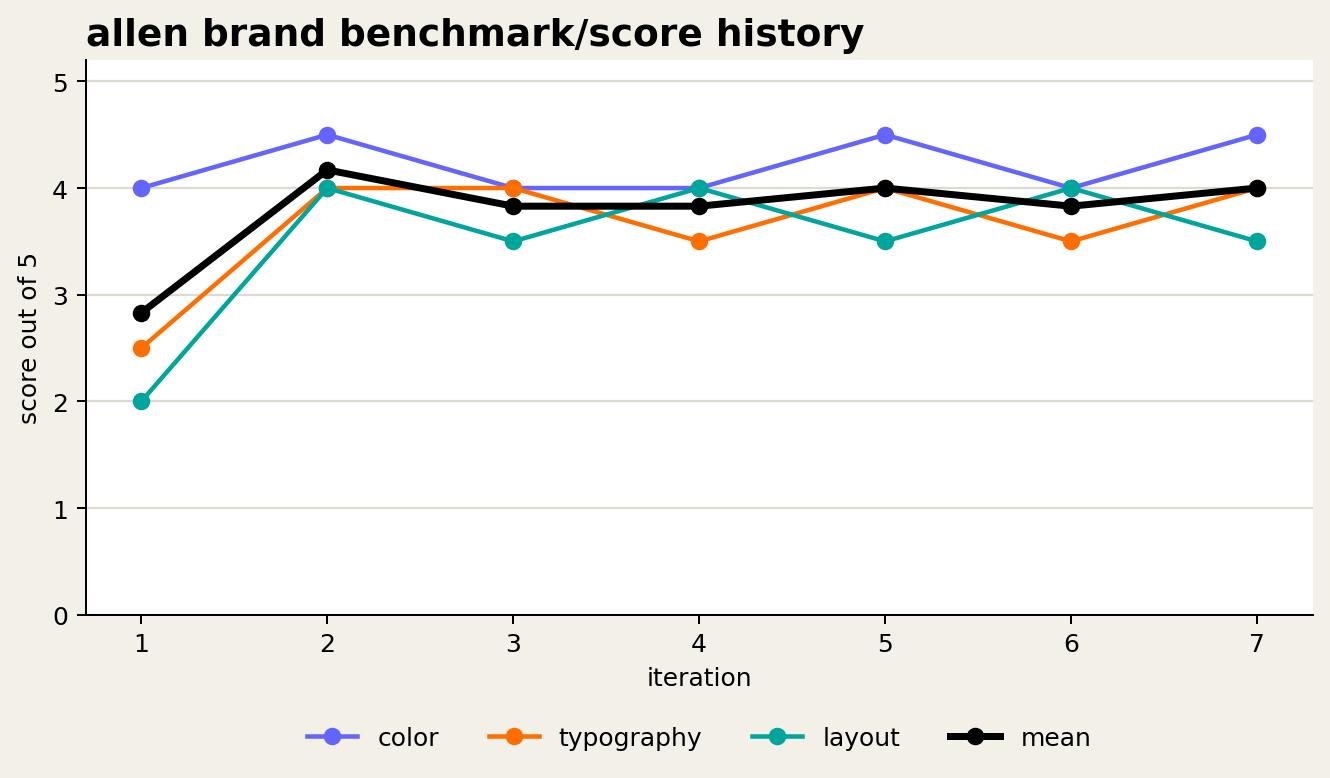
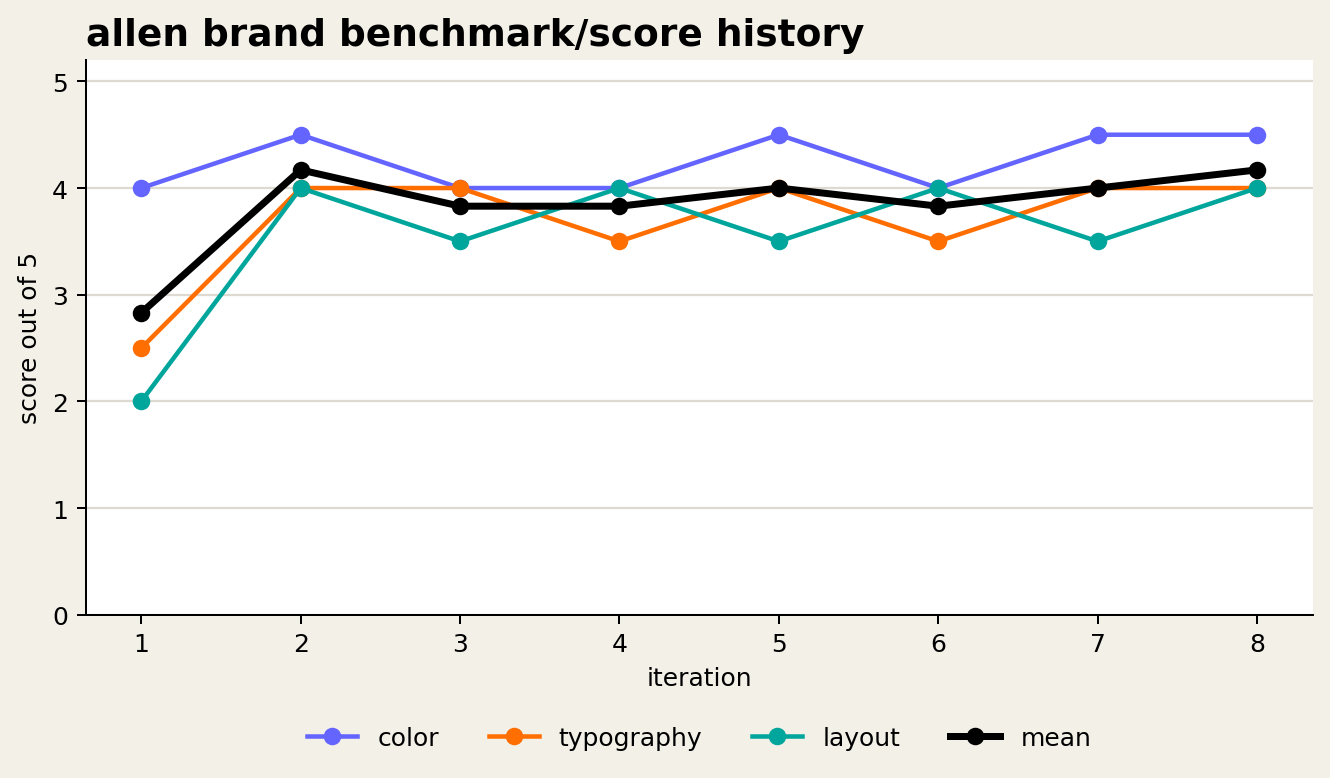
Record Allen inner-axis benchmark

diff --git a/.autoresearch/mod_plot.py b/.autoresearch/mod_plot.py
@@ -7,6 +7,7 @@
 # ///
 from __future__ import annotations
 
+from math import isfinite
 from pathlib import Path
 
 import matplotlib.pyplot as plt
@@ -21,14 +22,6 @@ SOURCE = Path(
 )
 OUT_DIR = Path(__file__).resolve().parent
 FIGURE_PATH = OUT_DIR / "plot.png"
-
-PLOTS = (
-    ("hit_rate", "line"),
-    ("false_alarm_rate", "line"),
-    ("vis_dprime", "bar"),
-    ("aud_dprime", "bar"),
-)
-METRICS = tuple(metric for metric, _ in PLOTS)
 
 ALLEN = {
     "black": "#000000",
@@ -49,18 +42,16 @@ ALLEN = {
 }
 ALLEN_SERIES = [
     ALLEN[key]
-    for key in (
-        "blue",
-        "orange",
-        "teal",
-        "violet",
-        "green",
-        "rose",
-        "maroon",
-        "ochre",
-        "yellow",
-    )
+    for key in ("blue", "orange", "teal", "violet", "green", "rose", "maroon")
 ]
+
+PLOTS = (
+    ("hit_rate", "line"),
+    ("false_alarm_rate", "line"),
+    ("vis_dprime", "bar"),
+    ("aud_dprime", "bar"),
+)
+METRICS = tuple(metric for metric, _ in PLOTS)
 METRIC_LABELS = {
     "hit_rate": "hit rate",
     "false_alarm_rate": "false alarm rate",
@@ -95,27 +86,22 @@ def resolve_font() -> str:
     )
 
 
-def apply_allen_style() -> None:
-    plt.rcParams.update(
-        {
-            "figure.facecolor": ALLEN["white"],
-            "axes.facecolor": ALLEN["white"],
-            "axes.edgecolor": ALLEN["black"],
-            "axes.labelcolor": ALLEN["black"],
-            "axes.linewidth": 0.9,
-            "axes.prop_cycle": cycler(color=ALLEN_SERIES),
-            "font.family": resolve_font(),
-            "font.size": 10,
-            "grid.color": ALLEN["page2"],
-            "grid.linewidth": 0.8,
-            "legend.frameon": False,
-            "savefig.facecolor": ALLEN["white"],
-            "savefig.bbox": "tight",
-            "text.color": ALLEN["black"],
-            "xtick.color": ALLEN["gray2"],
-            "ytick.color": ALLEN["gray2"],
-        }
-    )
+plt.rcParams.update(
+    {
+        "figure.facecolor": ALLEN["white"],
+        "axes.facecolor": ALLEN["white"],
+        "axes.edgecolor": ALLEN["black"],
+        "axes.labelcolor": ALLEN["black"],
+        "axes.prop_cycle": cycler(color=ALLEN_SERIES),
+        "font.family": resolve_font(),
+        "grid.color": ALLEN["page2"],
+        "grid.linewidth": 0.9,
+        "savefig.facecolor": ALLEN["white"],
+        "text.color": ALLEN["black"],
+        "xtick.color": ALLEN["gray2"],
+        "ytick.color": ALLEN["gray2"],
+    }
+)
 
 
 def load_session_summary() -> pl.DataFrame:
@@ -170,70 +156,84 @@ def summarize_by_weekday(sessions: pl.DataFrame) -> pl.DataFrame:
     return summary
 
 
-def style_axis(ax: plt.Axes, metric: str, weekdays: list[str]) -> None:
-    ax.set_title(
-        f"{METRIC_LABELS[metric]}/",
-        loc="left",
-        fontsize=11,
-        fontweight="bold",
-        pad=12,
-    )
-    ax.set_xticks(range(len(weekdays)))
-    ax.set_xticklabels([weekday.lower() for weekday in weekdays])
-    ax.set_ylabel("mean +/- SEM", fontsize=9.5)
+def clean_values(values: list[float | None], *, null_value: float) -> list[float]:
+    return [null_value if value is None else float(value) for value in values]
+
+
+def set_metric_limits(ax: plt.Axes, metric: str, means: list[float], sems: list[float]) -> None:
+    if metric in {"hit_rate", "false_alarm_rate"}:
+        ax.set_ylim(0, 1)
+        return
+
+    lows = [mean - sem for mean, sem in zip(means, sems, strict=True)]
+    highs = [mean + sem for mean, sem in zip(means, sems, strict=True)]
+    finite_lows = [value for value in lows if isfinite(value)]
+    finite_highs = [value for value in highs if isfinite(value)]
+    if not finite_lows or not finite_highs:
+        return
+
+    lower = min(0, min(finite_lows))
+    upper = max(finite_highs)
+    pad = max((upper - lower) * 0.15, 0.2)
+    ax.set_ylim(lower - pad, upper + pad)
+
+
+def style_axis(ax: plt.Axes, metric: str, x: list[int], weekdays: list[str]) -> None:
+    ax.set_title(METRIC_LABELS[metric], loc="left", fontsize=12, fontweight="bold", pad=12)
+    ax.set_ylabel("session mean", fontsize=9.5, labelpad=8)
+    ax.set_xticks(x, weekdays)
     ax.grid(axis="y")
     ax.grid(axis="x", visible=False)
-    ax.spines["top"].set_visible(False)
-    ax.spines["right"].set_visible(False)
-    ax.spines["left"].set_color(ALLEN["gray1"])
-    ax.spines["bottom"].set_color(ALLEN["gray1"])
-    ax.tick_params(axis="both", length=3, width=0.8, labelsize=8.5)
+    ax.tick_params(axis="both", labelsize=9, length=0)
+
+    for spine in ("top", "right"):
+        ax.spines[spine].set_visible(False)
+    ax.spines["left"].set_color(ALLEN["black"])
+    ax.spines["bottom"].set_color(ALLEN["black"])
 
 
 def make_plot(summary: pl.DataFrame) -> None:
-    apply_allen_style()
-
     x = list(range(summary.height))
-    weekdays = summary["weekday"].to_list()
-    fig, axes = plt.subplots(2, 2, figsize=(8, 6), sharex=True)
+    weekdays = [weekday.lower() for weekday in summary["weekday"].to_list()]
+    fig, axes = plt.subplots(2, 2, figsize=(9.4, 6.8), sharex=True)
     fig.subplots_adjust(
-        left=0.11,
+        left=0.10,
         right=0.98,
-        bottom=0.13,
-        top=0.81,
-        hspace=0.42,
-        wspace=0.30,
+        bottom=0.12,
+        top=0.78,
+        hspace=0.48,
+        wspace=0.32,
     )
-
     fig.suptitle(
-        "allen institute/dynamic routing",
-        x=0.11,
-        y=0.97,
+        "dynamic routing/weekday behavior",
+        x=0.10,
+        y=0.96,
         ha="left",
-        fontsize=18,
+        fontsize=20,
         fontweight="bold",
     )
     fig.text(
-        0.11,
-        0.925,
-        "behavior performance by weekday",
+        0.10,
+        0.905,
+        "session mean +/- SEM across behavior sessions",
         ha="left",
         fontsize=10.5,
         color=ALLEN["gray2"],
     )
-    fig.text(
-        0.98,
-        0.925,
-        f"{int(summary['n_sessions'].sum())} sessions",
-        ha="right",
-        fontsize=10.5,
-        color=ALLEN["gray2"],
+    fig.add_artist(
+        Line2D(
+            [0.10, 0.98],
+            [0.835, 0.835],
+            transform=fig.transFigure,
+            color=ALLEN["blue"],
+            linewidth=2.5,
+            solid_capstyle="butt",
+        )
     )
-    fig.supxlabel("weekday", x=0.545, y=0.045, fontsize=10.5)
 
     for ax, (metric, plot_type) in zip(axes.flat, PLOTS, strict=True):
-        means = summary[f"{metric}_mean"].to_list()
-        sems = summary[f"{metric}_sem"].fill_null(0).to_list()
+        means = clean_values(summary[f"{metric}_mean"].to_list(), null_value=float("nan"))
+        sems = clean_values(summary[f"{metric}_sem"].to_list(), null_value=0)
         color = METRIC_COLORS[metric]
 
         if plot_type == "line":
@@ -242,15 +242,14 @@ def make_plot(summary: pl.DataFrame) -> None:
                 means,
                 yerr=sems,
                 color=color,
-                ecolor=ALLEN["gray1"],
-                elinewidth=1.0,
-                capsize=3,
-                linewidth=2.1,
                 marker="o",
                 markersize=5.5,
                 markerfacecolor=ALLEN["white"],
                 markeredgecolor=color,
                 markeredgewidth=1.5,
+                linewidth=2.4,
+                elinewidth=1.3,
+                capsize=3,
             )
         else:
             ax.bar(
@@ -261,36 +260,22 @@ def make_plot(summary: pl.DataFrame) -> None:
                 edgecolor=ALLEN["black"],
                 linewidth=0.8,
                 error_kw={
-                    "ecolor": ALLEN["gray2"],
-                    "elinewidth": 1.0,
+                    "ecolor": ALLEN["black"],
+                    "elinewidth": 1.2,
                     "capsize": 3,
-                    "capthick": 1.0,
+                    "capthick": 1.2,
                 },
-                width=0.64,
             )
 
-        style_axis(ax, metric, weekdays)
+        set_metric_limits(ax, metric, means, sems)
+        style_axis(ax, metric, x, weekdays)
 
-    fig.add_artist(
-        Line2D(
-            [0.11, 0.98],
-            [0.475, 0.475],
-            transform=fig.transFigure,
-            color=ALLEN["page2"],
-            lw=0.8,
-        )
-    )
-    fig.add_artist(
-        Line2D(
-            [0.545, 0.545],
-            [0.13, 0.81],
-            transform=fig.transFigure,
-            color=ALLEN["page2"],
-            lw=0.8,
-        )
-    )
+    for ax in axes[0, :]:
+        ax.tick_params(axis="x", labelbottom=False)
+    for ax in axes[1, :]:
+        ax.set_xlabel("weekday", fontsize=9.5, labelpad=8)
 
-    fig.savefig(FIGURE_PATH, dpi=200)
+    fig.savefig(FIGURE_PATH, dpi=180, bbox_inches="tight")
     plt.close(fig)
 
 
